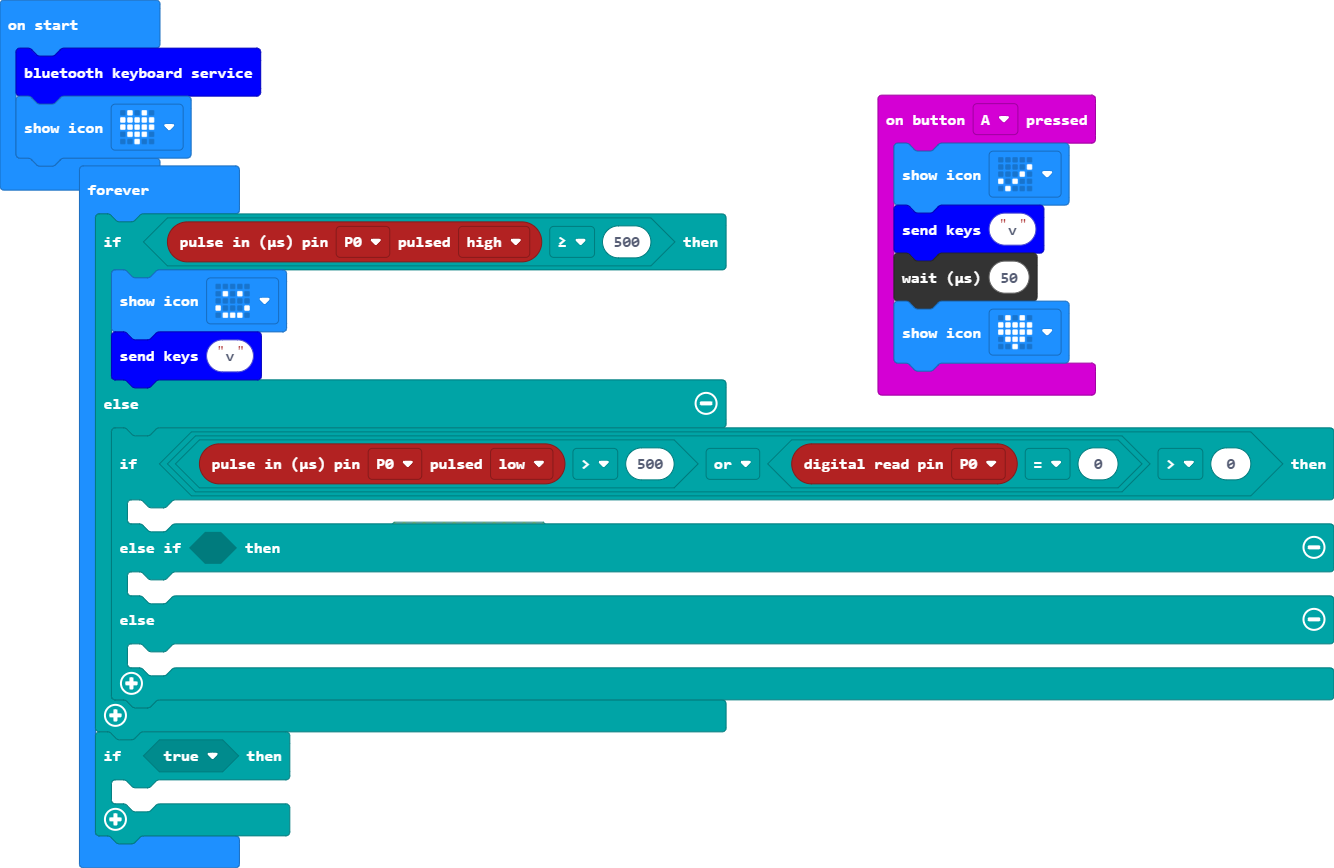
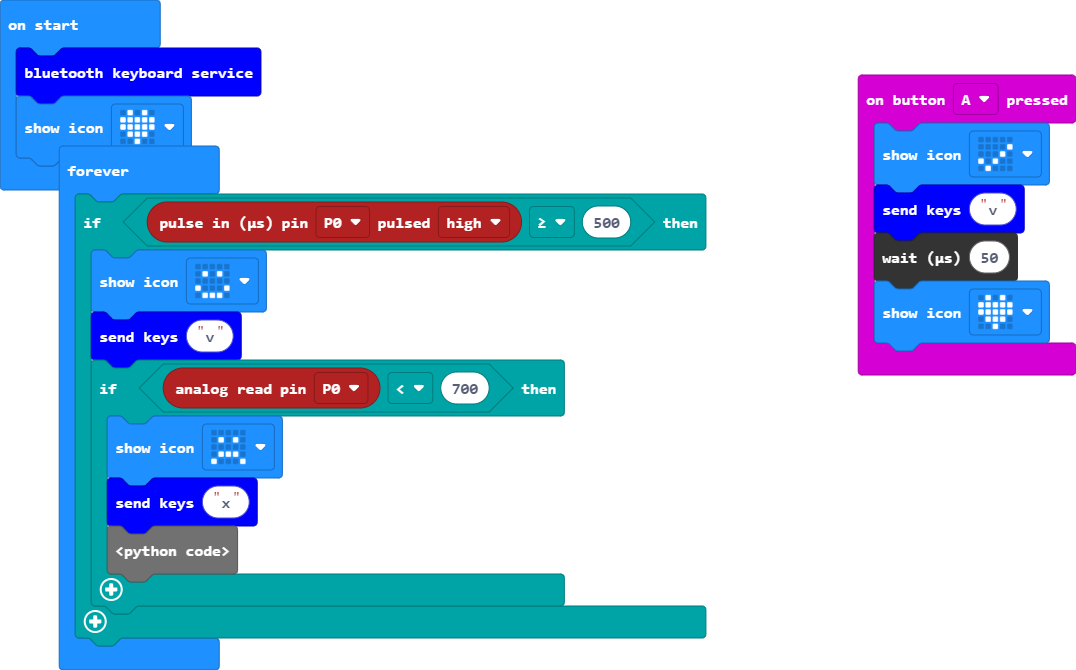
Update main.blocks, main.ts, main.py

diff --git a/main.ts b/main.ts
@@ -10,9 +10,13 @@ basic.forever(function on_forever() {
     if (pins.pulseIn(DigitalPin.P0, PulseValue.High) >= 500) {
         basic.showIcon(IconNames.Happy)
         keyboard.sendString("v")
-    } else if (pins.pulseIn(DigitalPin.P0, PulseValue.Low) > 500) {
-        basic.showIcon(IconNames.Sad)
-        keyboard.sendString("x")
+        if (pins.analogReadPin(AnalogPin.P0) < 700) {
+            basic.showIcon(IconNames.Sad)
+            keyboard.sendString("x")
+            return
+        }
+        
     }
     
+    return
 })

diff --git a/main.py b/main.py
@@ -12,8 +12,9 @@ def on_forever():
     if pins.pulse_in(DigitalPin.P0, PulseValue.HIGH) >= 500:
         basic.show_icon(IconNames.HAPPY)
         keyboard.send_string("v")
-    else:
-        if pins.pulse_in(DigitalPin.P0, PulseValue.LOW) > 500:
+        if pins.analog_read_pin(AnalogPin.P0) < 700:
             basic.show_icon(IconNames.SAD)
             keyboard.send_string("x")
+            return
+    return
 basic.forever(on_forever)
